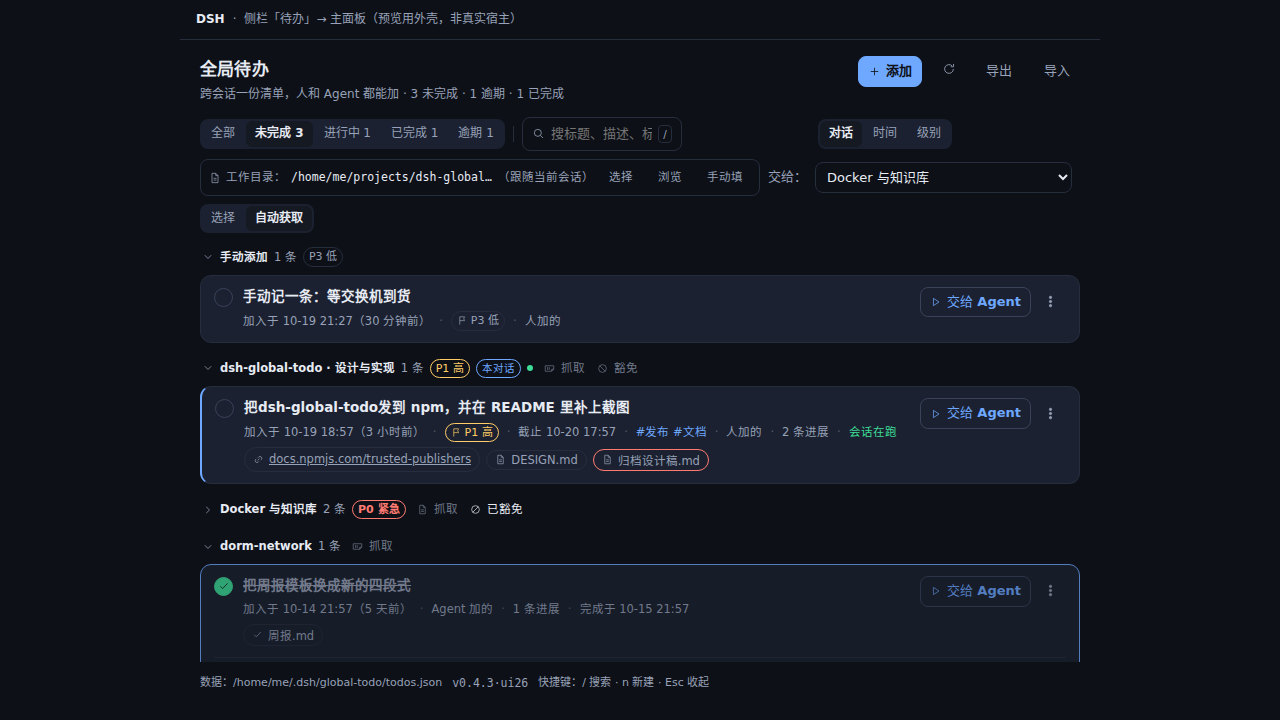
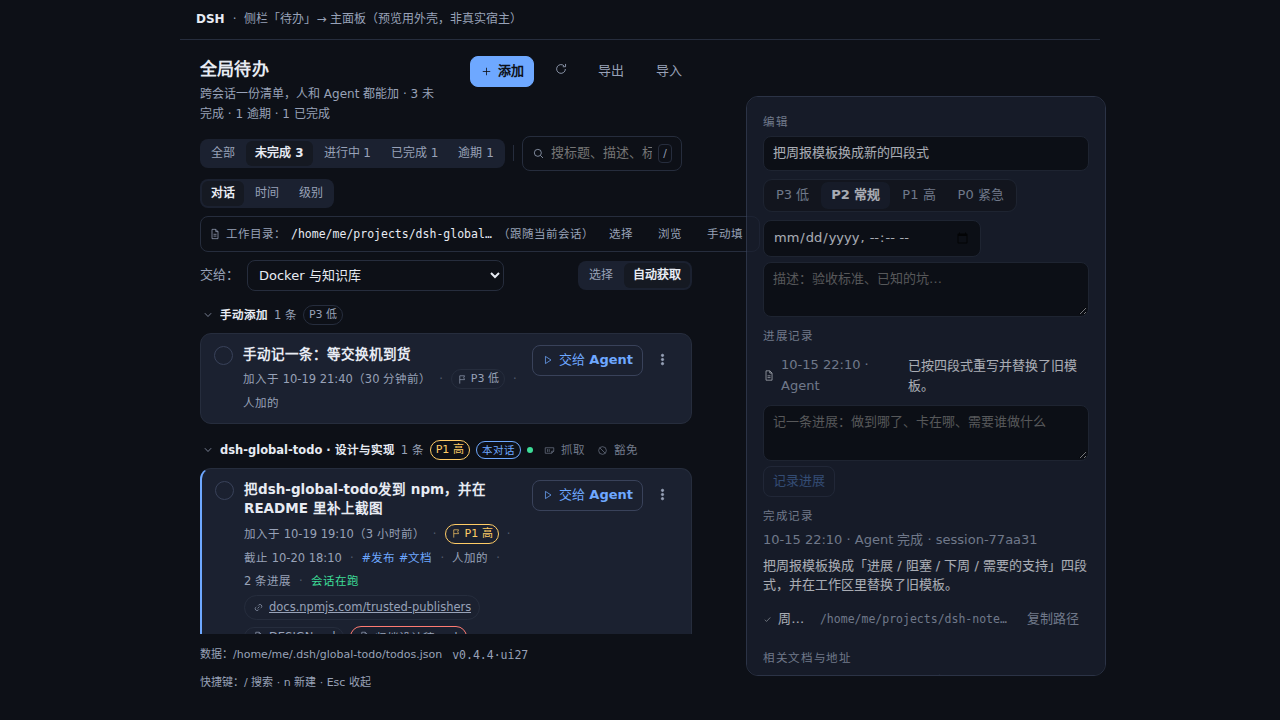
chore(release): cut 0.4.4
Above 1100px the open row's detail becomes a card beside the list instead of
pushing it down; CSS-only over the same markup, so one detail implementation.

diff --git a/lib/client.js b/lib/client.js
@@ -50,7 +50,7 @@ window.__ModuleLoader__.load({
      * different mechanisms (restart vs. hot reload), so "which one am I looking
      * at" needs an answer that the bundle itself carries.
      */
-    const UI_REV = 'ui26'
+    const UI_REV = 'ui27'
     /** Last language resolved for the shell; module-level so a fetch failure can be worded too. */
     let activeLang = 'zh'
 
@@ -1008,6 +1008,19 @@ button.gt-chip[data-on="1"] { color: var(--dsw-alias-label-primary); border-colo
 .gt-menu button[data-danger="1"] { color: var(--dsw-alias-state-error-primary); }
 .gt-detail { display: flex; flex-direction: column; gap: 10px; border-top: 1px solid var(--dsw-alias-border-l1);
   padding-top: 10px; margin-top: 2px; }
+/* Wide screens: the open row's detail becomes a card on the right instead of pushing the list
+   down. Deliberately CSS-only over unchanged markup: one detail implementation, and it only
+   applies where there is room for a second column. */
+@media (min-width: 1100px) {
+  .gt-root[data-wide-detail="1"] .gt-inner { padding-right: 408px; }
+  .gt-root[data-wide-detail="1"] .gt-item[data-open="1"] .gt-detail {
+    /* Follow the panel's own right edge (it is centred and capped at 980px) instead of the
+       viewport's, so the card stays attached to the list on ultra-wide screens. */
+    position: fixed; top: 96px; right: max(24px, calc(50vw - 466px)); width: 360px; max-height: calc(100vh - 140px);
+    overflow: auto; padding: 16px; margin: 0; border: 1px solid var(--dsw-alias-border-l2);
+    border-radius: 12px; background: var(--dsw-alias-bg-overlay); z-index: 30;
+  }
+}
 .gt-section { display: flex; flex-direction: column; gap: 5px; }
 .gt-completion { white-space: pre-wrap; word-break: break-word; line-height: 1.5; }
 .gt-section-title { color: var(--dsw-alias-label-secondary); font-size: 11.5px; text-transform: uppercase;
@@ -2760,7 +2773,7 @@ button.gt-chip[data-on="1"] { color: var(--dsw-alias-label-primary); border-colo
 
       return h(
         'div',
-        { className: 'gt-root' },
+        { className: 'gt-root', 'data-wide-detail': expandedId === '' ? '0' : '1' },
         h(
           'div',
           { className: 'gt-inner' },

diff --git a/lib/index.js b/lib/index.js
@@ -35,7 +35,7 @@ import { createStore, resolveStorePath } from './store.js'
 import { createTools } from './tools.js'
 
 /** Must equal `package.json`'s version; `npm run check` enforces that. */
-export const VERSION = '0.4.3'
+export const VERSION = '0.4.4'
 
 /** Plugin id. Also the Loader row id in `cordis.patch.yml`. */
 export const name = 'dsh-global-todo'

diff --git a/docs/DESIGN.md b/docs/DESIGN.md
@@ -57,6 +57,15 @@ $DSH_HOME/global-todo/todos.json     ← { version: 1, todos: [ … ] }
   version, and a future migration step would run before the first write, keeping the old
   file as a backup.
 
+## On a wide window, the detail stands beside the list
+
+Expanding a row inline is right on a narrow window and wrong on a wide one: the list jumps, the
+row you were reading slides away, and the rest of the screen sits empty. Above 1100px the open
+row's detail is lifted out of the flow into a card at the panel's right edge, and the list gets
+right padding equal to that card. This is a CSS-only override over unchanged markup
+(`.gt-root[data-wide-detail]` plus one media query) precisely so there is still exactly one
+detail implementation — a second render path for wide screens would drift from the inline one at
+the first field change.
 ## A shared file changes without asking
 
 The list is deliberately portable — a notes repo, a synced folder, a NAS — so another machine

diff --git a/CHANGELOG.md b/CHANGELOG.md
@@ -7,6 +7,16 @@ and this project adheres to [Semantic Versioning](https://semver.org/spec/v2.0.0
 
 ## [Unreleased]
 
+## [0.4.4] — 2026-10-19
+
+Opening a todo on a wide screen used to push the list down and leave half the window unused.
+
+- **The open row's detail is now a card beside the list**, above a 1100px viewport: it sits at
+  the panel's right edge, the list keeps its own column, and the card scrolls on its own. Narrow
+  windows keep the familiar inline expansion. The change is CSS-only over the existing markup —
+  `.gt-root[data-wide-detail]` plus one media query — so there is still exactly one detail
+  implementation; a second wide-screen render path would drift from the inline one at the first
+  field change.
 ## [0.4.3] — 2026-10-19
 
 The list is meant to live in a synced folder; a change from another machine should not be

diff --git a/docs/ROADMAP.md b/docs/ROADMAP.md
@@ -110,6 +110,9 @@ in `skipped[]`, and archived/cancelled rows deliberately do not block a new one.
 counts a disagreement once (`externalChanges`, `lastExternalAt` in `lib/store.js`; surfaced by
 `/health.store`). The panel shows a one-line notice instead of letting a synced folder change the
 list silently.
+**Side detail on wide windows** — above 1100px the open row's detail becomes a card at the
+panel's right edge instead of pushing the list down (CSS-only over the same markup; one detail
+implementation), while narrow windows keep the inline expansion.
 ### Partly landed
 
 - **Batch and multi-select** — the selection mode, its per-row markers and the batch
